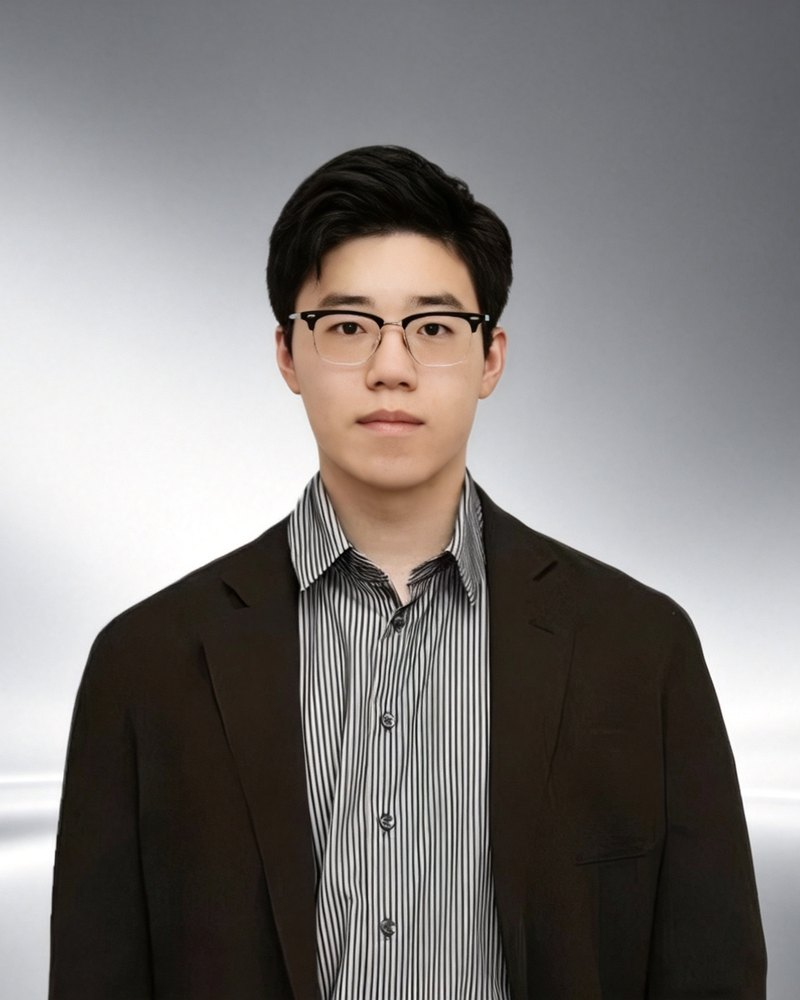
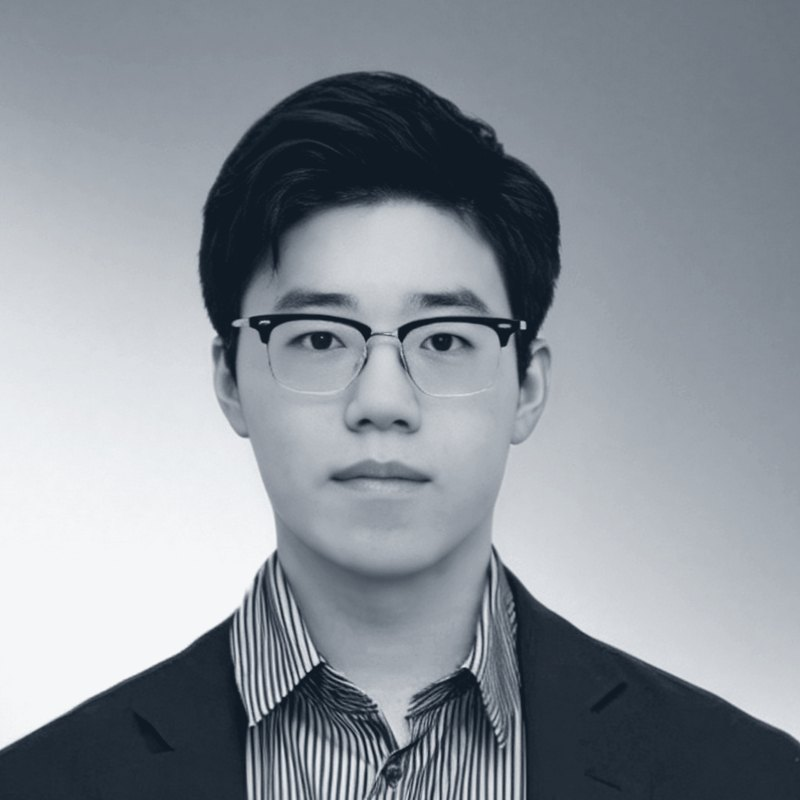
About: standardise founder photos (square, matched face scale, monochrome)
Claude-Session: https://claude.ai/code/session_01YZMWM61oUt9dxwgqepUHGP

diff --git a/about.html b/about.html
@@ -45,19 +45,19 @@
     </div>
     <div class="people">
       <div class="person">
-        <div class="photo"><img src="assets/harrison.jpg" alt="Harrison Su" width="800" height="1000" loading="lazy"></div>
+        <div class="photo"><img src="assets/harrison.jpg" alt="Harrison Su" width="800" height="800" loading="lazy"></div>
         <h3>Harrison Su</h3>
         <p class="role">Co-founder</p>
         <p>PhD in Materials Science and Engineering, and Director of Caelvox Technologies, developing advanced sensing architecture and automated inspection systems. His research spans energy materials, terahertz imaging and advanced characterisation, including collaborations with the Australian Synchrotron and the Australian Centre for Neutron Scattering. Focused on translating materials science into validated diagnostics, industrial applications and asset intelligence.</p>
       </div>
       <div class="person">
-        <div class="photo"><img src="assets/laurens.jpg" alt="Laurens Willems van Beveren" width="800" height="1000" loading="lazy"></div>
+        <div class="photo"><img src="assets/laurens.jpg" alt="Laurens Willems van Beveren" width="800" height="800" loading="lazy"></div>
         <h3>Laurens Willems van Beveren</h3>
         <p class="role">Co-founder</p>
         <p>PhD in Applied Physics and Director of Australian Vacuum Services and Australian Drone Surveys. Former Experimental Scientist at Australia's National Measurement Institute, with extensive experience in precision instrumentation, measurement science and systems engineering. Combines scientific instrumentation expertise with CASA-credentialed drone operations, supporting reliable sensor integration, field inspection and engineering deployment.</p>
       </div>
       <div class="person">
-        <div class="photo"><img src="assets/sohan.jpg" alt="Sohan Domingo" width="800" height="1000" loading="lazy"></div>
+        <div class="photo"><img src="assets/sohan.jpg" alt="Sohan Domingo" width="800" height="800" loading="lazy"></div>
         <h3>Sohan Domingo</h3>
         <p class="role">Co-founder</p>
         <p>Master of Software Engineering, and Founder of Edgegenix, a Sydney venture studio building computer vision and edge inference systems for councils, utilities, fire agencies and insurers, and of BrightBuddy, bringing companion robots to Australian aged care. Long-standing focus on LiDAR, computer vision and geospatial systems for infrastructure, with hands-on experience across aerial data systems and edge AI deployment.</p>

diff --git a/styles.css b/styles.css
@@ -154,7 +154,7 @@ a.card:hover .more svg{transform:translateX(3px)}
 /* people */
 .people{display:grid;grid-template-columns:repeat(3,minmax(0,1fr));gap:28px}
 .person{display:grid;gap:12px;align-content:start}
-.person .photo{aspect-ratio:4/5;border-radius:14px;background:#fff;border:1px solid var(--line);overflow:hidden;max-width:100%}
+.person .photo{aspect-ratio:1;border-radius:14px;background:#fff;border:1px solid var(--line);overflow:hidden;max-width:100%}
 .person .photo img{width:100%;height:100%;object-fit:cover;object-position:50% 30%}
 .person h3{font-size:22px}
 .person .role{font-family:var(--font-display);font-size:14px;font-weight:600;color:var(--accent-ink);letter-spacing:.04em}

diff --git a/build.py b/build.py
@@ -474,19 +474,19 @@ about_body = f'''
     </div>
     <div class="people">
       <div class="person">
-        <div class="photo"><img src="assets/harrison.jpg" alt="Harrison Su" width="800" height="1000" loading="lazy"></div>
+        <div class="photo"><img src="assets/harrison.jpg" alt="Harrison Su" width="800" height="800" loading="lazy"></div>
         <h3>Harrison Su</h3>
         <p class="role">Co-founder</p>
         <p>PhD in Materials Science and Engineering, and Director of Caelvox Technologies, developing advanced sensing architecture and automated inspection systems. His research spans energy materials, terahertz imaging and advanced characterisation, including collaborations with the Australian Synchrotron and the Australian Centre for Neutron Scattering. Focused on translating materials science into validated diagnostics, industrial applications and asset intelligence.</p>
       </div>
       <div class="person">
-        <div class="photo"><img src="assets/laurens.jpg" alt="Laurens Willems van Beveren" width="800" height="1000" loading="lazy"></div>
+        <div class="photo"><img src="assets/laurens.jpg" alt="Laurens Willems van Beveren" width="800" height="800" loading="lazy"></div>
         <h3>Laurens Willems van Beveren</h3>
         <p class="role">Co-founder</p>
         <p>PhD in Applied Physics and Director of Australian Vacuum Services and Australian Drone Surveys. Former Experimental Scientist at Australia's National Measurement Institute, with extensive experience in precision instrumentation, measurement science and systems engineering. Combines scientific instrumentation expertise with CASA-credentialed drone operations, supporting reliable sensor integration, field inspection and engineering deployment.</p>
       </div>
       <div class="person">
-        <div class="photo"><img src="assets/sohan.jpg" alt="Sohan Domingo" width="800" height="1000" loading="lazy"></div>
+        <div class="photo"><img src="assets/sohan.jpg" alt="Sohan Domingo" width="800" height="800" loading="lazy"></div>
         <h3>Sohan Domingo</h3>
         <p class="role">Co-founder</p>
         <p>Master of Software Engineering, and Founder of Edgegenix, a Sydney venture studio building computer vision and edge inference systems for councils, utilities, fire agencies and insurers, and of BrightBuddy, bringing companion robots to Australian aged care. Long-standing focus on LiDAR, computer vision and geospatial systems for infrastructure, with hands-on experience across aerial data systems and edge AI deployment.</p>
